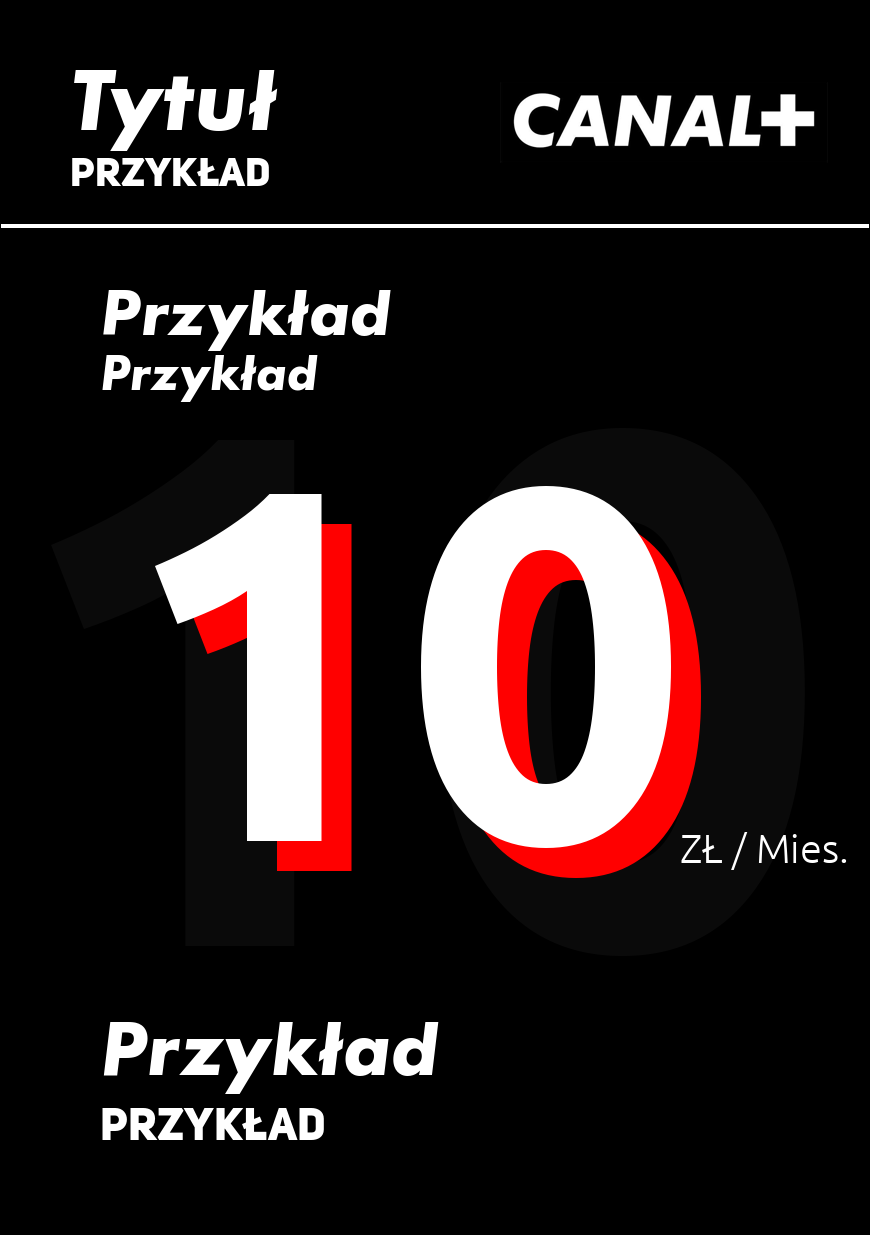
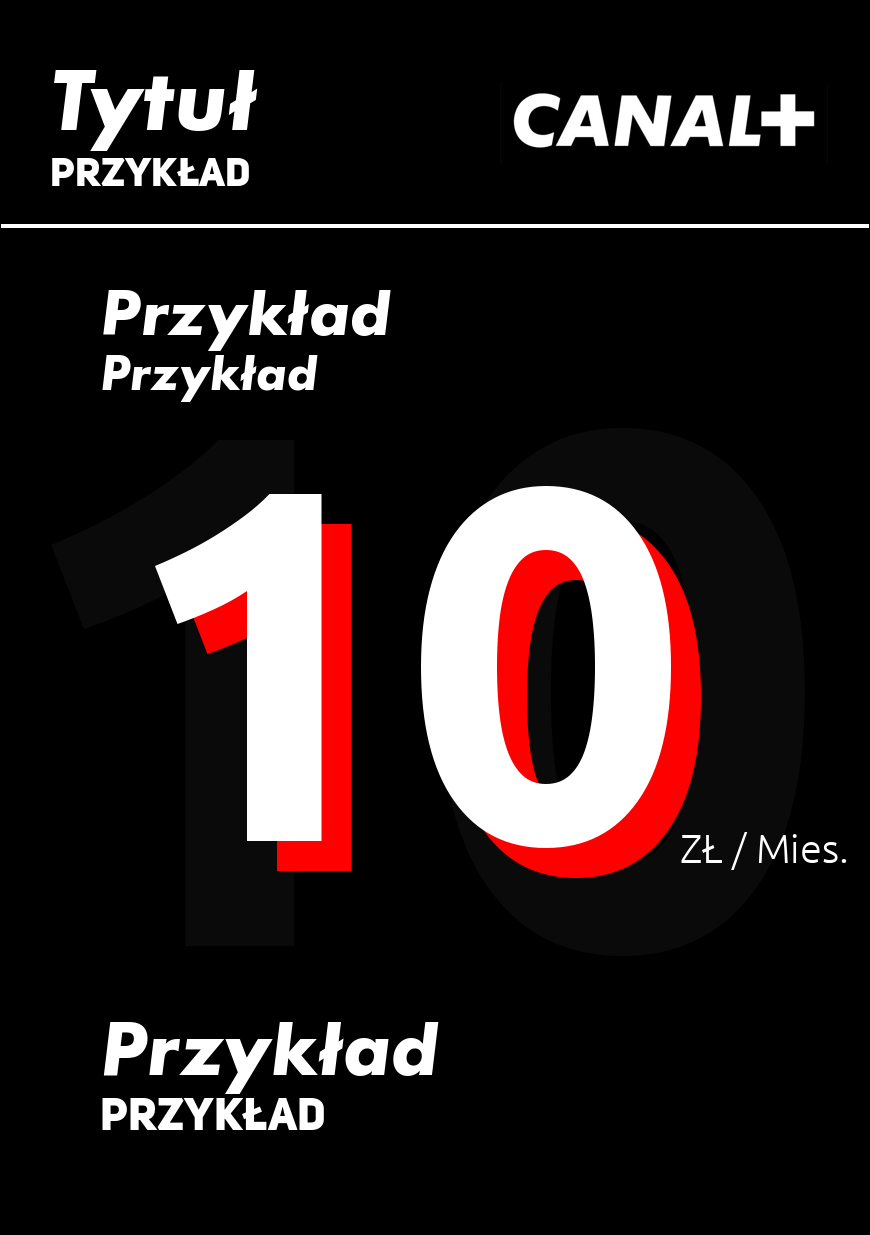
Fix

Changed region(s): [[0.0621, 0.0308, 0.3414, 0.1538], [0.1241, 0.8615, 0.3724, 0.9231]]

diff --git a/gen/canalp.py b/gen/canalp.py
@@ -90,8 +90,8 @@ def generate_image_from_text_files(text_files, output_image, lines_y, image_mapp
 
 # Example usage:
 text_files = {
-    "title.txt": {"x": 70, "y": 50, "font_size": 80, "text_color": (255, 255, 255), "font_file": "canal+/canal1.ttf"},
-    "desc.txt": {"x": 70, "y": 155, "font_size": 40, "text_color": (255, 255, 255), "font_file": "us_heavy.otf"},
+    "title.txt": {"x": 50, "y": 50, "font_size": 80, "text_color": (255, 255, 255), "font_file": "canal+/canal1.ttf"},
+    "desc.txt": {"x": 50, "y": 155, "font_size": 40, "text_color": (255, 255, 255), "font_file": "us_heavy.otf"},
 
     "sub1.txt": {"x": 100, "y": 275, "font_size": 60, "text_color": (255, 255, 255), "font_file": "canal+/canal1.ttf"},
     "text1.txt": {"x": 100, "y": 345, "font_size": 45, "text_color": (255, 255, 255), "font_file": "canal+/canal1.ttf"},
@@ -103,7 +103,7 @@ text_files = {
     "default_1.txt": {"x": 680, "y": 825, "font_size": 40, "text_color": (255, 255, 255), "font_file": "fonts/Ubuntu-L.ttf"},
 
     "sub3.txt": {"x": 100, "y": 1005, "font_size": 70, "text_color": (255, 255, 255), "font_file": "canal+/canal1.ttf"},
-    "text3.txt": {"x": 100, "y": 1105, "font_size": 45, "text_color": (255, 255, 255), "font_file": "us_heavy.otf"},
+    "text3.txt": {"x": 100, "y": 1095, "font_size": 45, "text_color": (255, 255, 255), "font_file": "us_heavy.otf"},
 
 
 
